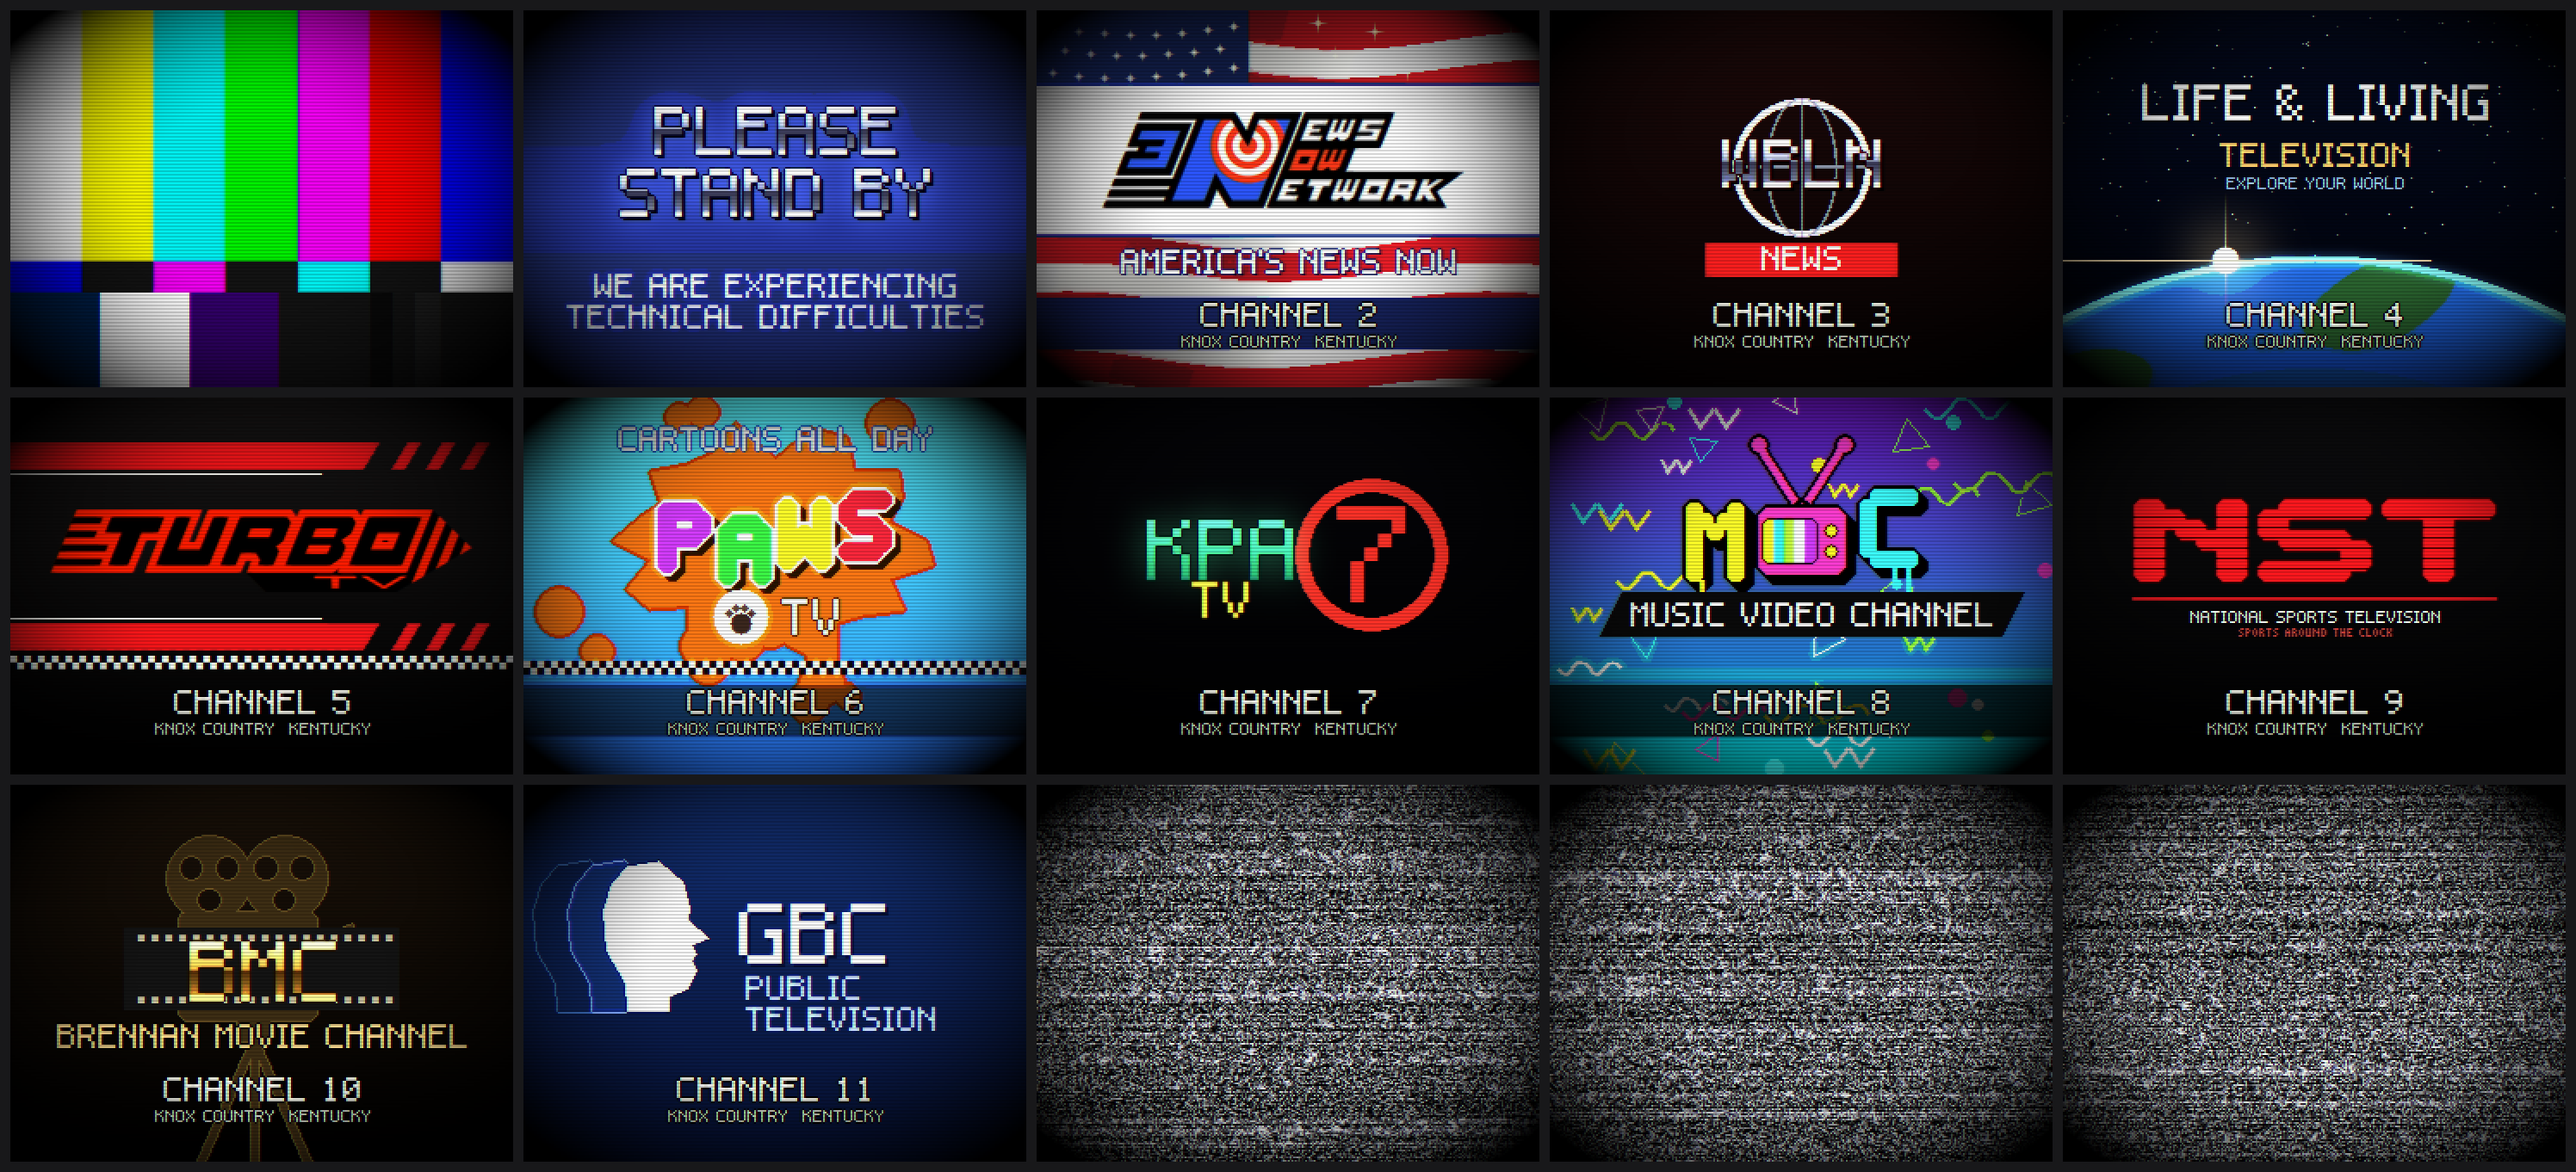
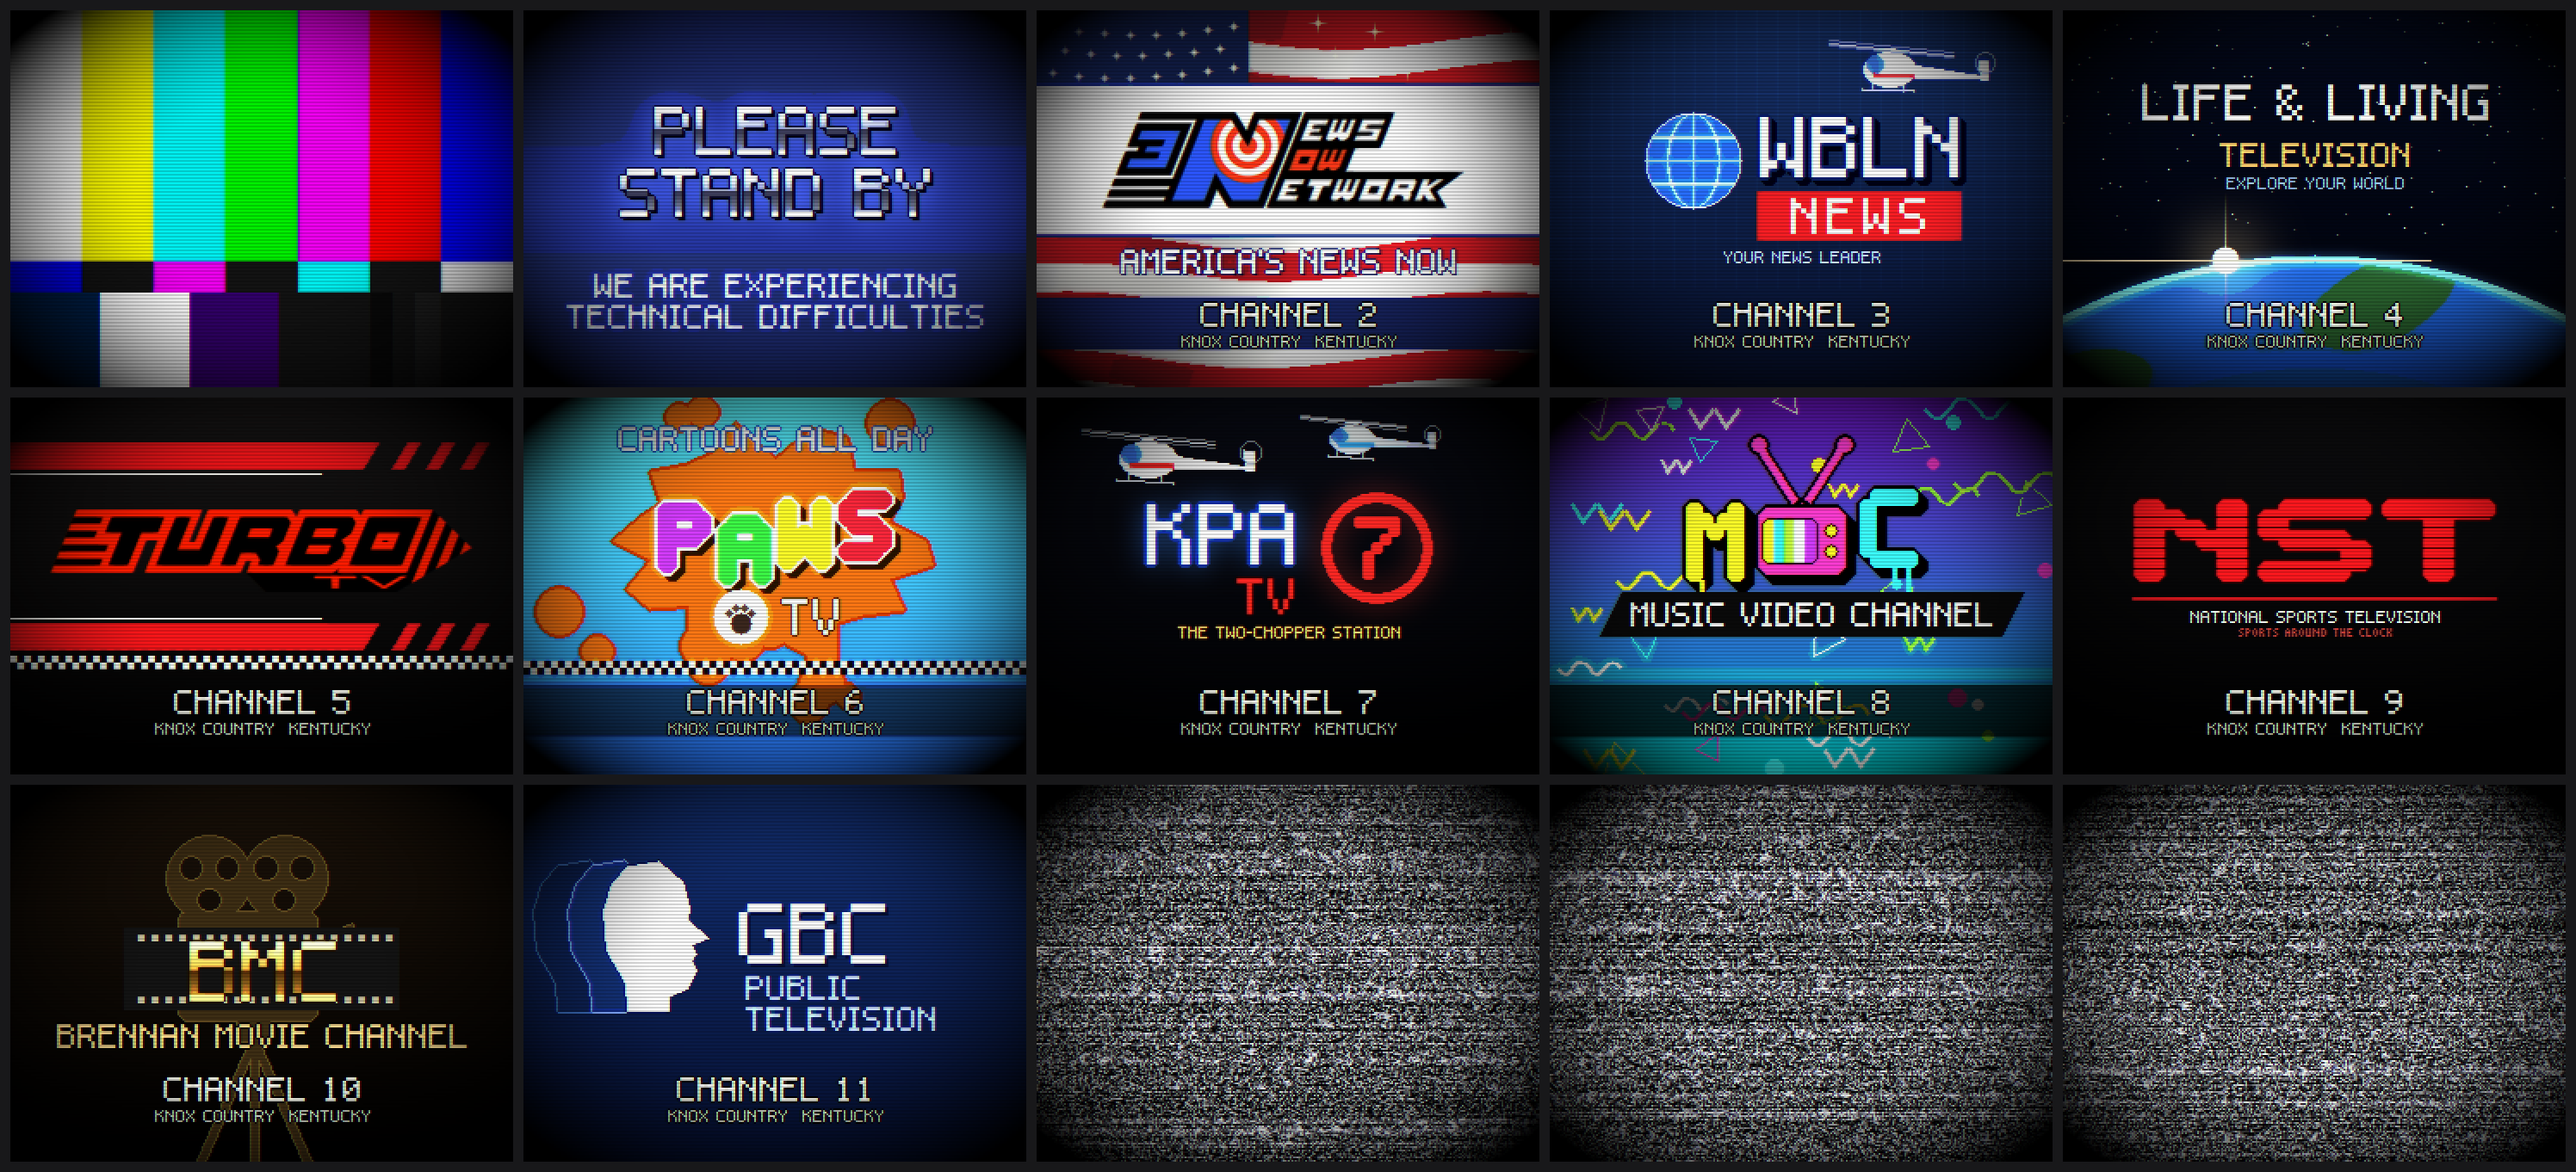
Design: WBLN rebuilt to read; KPATV tidied; news choppers on both
WBLN (director: hard to read): newsroom blue with a faint map grid, the globe
beside the call letters, big white WBLN with a navy outline and shadow, NEWS in a
red bar, YOUR NEWS LEADER, and its news chopper flying across the top (director:
a chopper in shot). KPATV: white KPA with a blue glow, red TV, the red ring with
the 7 standing clear in it, and two choppers, lead and wingman, with THE
TWO-CHOPPER STATION (director: KPA has two choppers and they know it). The
chopper is one shared drawing (chopper()).

Claude-Session: https://claude.ai/code/session_015Lv8fXDH1kuxg46sEw6iLh

Changed region(s): [[0.5906, 0.0, 0.8082, 0.3392], [0.4352, 0.3392, 0.5595, 0.5551]]

diff --git a/ZeDUI/tools/physpx/offair.py b/ZeDUI/tools/physpx/offair.py
@@ -227,6 +227,30 @@ def footer(a, w, h, ch, s, col=(240, 240, 230)):
     text(a, COUNTY, w // 2, int(h * 0.78) + 8 * ss + 3, 1, col, font="57", outline=(0, 0, 0))
 
 
+def chopper(a, hx0, hy0, L, s, stripe=(200, 30, 36), body=(225, 230, 240, 255)):
+    """a news helicopter flying left, nose down: cabin, windscreen, a stripe down the side, tail boom, fin, the tail
+    rotor's blur, the main rotor as a blurred line, skids"""
+    h, w = a.shape[:2]
+    ch_ = Image.new("RGBA", (w, h), (0, 0, 0, 0)); dc = ImageDraw.Draw(ch_)
+    tilt = 0.10
+    def T(x, y): return (hx0 + x * L, hy0 + (y + (x - 0.35) * tilt) * L)
+    dc.ellipse([*T(0.02, 0.18), *T(0.42, 0.40)], fill=body)
+    dc.polygon([T(0.38, 0.24), T(0.95, 0.27), T(0.95, 0.30), T(0.38, 0.34)], fill=body)
+    dc.polygon([T(0.90, 0.16), T(0.97, 0.16), T(0.97, 0.30), T(0.92, 0.30)], fill=body)
+    dc.ellipse([*T(0.88, 0.10), *T(1.02, 0.24)], outline=(200, 210, 230, 160), width=1)
+    dc.ellipse([*T(0.04, 0.21), *T(0.17, 0.33)], fill=(60, 120, 190, 255))
+    dc.polygon([T(0.10, 0.33), T(0.40, 0.31), T(0.40, 0.34), T(0.10, 0.36)], fill=tuple(stripe) + (255,))
+    dc.rectangle([*T(0.18, 0.14), *T(0.26, 0.19)], fill=body)
+    for k, al in ((0.0, 230), (0.02, 120), (-0.02, 120)):
+        dc.line([T(-0.25, 0.14 + k), T(0.70, 0.14 + k)], fill=(235, 240, 250, al), width=1)
+    for xx in (0.08, 0.32):
+        dc.line([T(xx, 0.40), T(xx, 0.45)], fill=(200, 205, 215, 255), width=1)
+    dc.line([T(0.0, 0.46), T(0.40, 0.44)], fill=(200, 205, 215, 255), width=max(1, s // 2))
+    chp = np.asarray(ch_, np.float32) / 255
+    al_ = chp[..., 3:4]
+    a[:] = a * (1 - al_) + chp[..., :3] * al_
+
+
 def signoff(cid, w, h):
     s = big_scale(w, h)
     name, ch = {c[0]: (c[1], c[2]) for c in CHANNELS}[cid]
@@ -263,18 +287,40 @@ def signoff(cid, w, h):
         ss_ = max(1, s // 2)                                            # a navy bar under the footer's lines
         rect(a, 0, int(h * 0.78) - 3, w, 8 * ss_ + 14, (24, 36, 96))
     elif cid == "wbln":
-        a = card_frame(w, h, (30, 10, 10), (6, 2, 2))
-        r = int(10 * s)
-        put(a, ring_mask(r, max(2, s)), cx - r, cy - r, (220, 220, 230))                 # a globe: its ring and meridians
-        for k in (-0.5, 0, 0.5):
-            m = np.zeros((2 * r + 1, 2 * r + 1), bool)
-            yy, xx = np.mgrid[-r:r + 1, -r:r + 1]
-            m |= (np.abs(xx - k * np.sqrt(np.clip(r * r - yy * yy, 0, None))) < 0.8) & (xx * xx + yy * yy <= r * r)
-            put(a, m, cx - r, cy - r, (140, 150, 170))
-        rect(a, cx - r, cy - 1, 2 * r, 2, (140, 150, 170))
-        text(a, "WBLN", cx, cy - 4 * s, s, chrome(), outline=(40, 0, 0), shadow=(0, 0, 0))
-        rect(a, cx - 14 * s, cy + r + s, 28 * s, 8 * max(1, s // 2) + 4, (200, 30, 30))
-        text(a, "NEWS", cx, cy + r + s + 2, max(1, s // 2), (255, 255, 255))
+        # the local news station, readable (director, Oct 30 2026: "WBLN is hard to read"): a newsroom-blue field with
+        # a faint map grid, the globe beside the call letters (not under them), big white letters with a navy outline
+        # and shadow, NEWS in a red bar under them, YOUR NEWS LEADER
+        a = card_frame(w, h, (24, 52, 110), (6, 14, 40))
+        for x in range(0, w, max(6, 3 * s)): a[:int(h * 0.74), x] *= 1.12      # the faint grid
+        for y in range(0, int(h * 0.74), max(6, 3 * s)): a[y, :] *= 1.12
+        np.clip(a, 0, 1, out=a)
+        sc = s + 1
+        m = glyph_mask("WBLN", "57", sc)
+        r = int(5.5 * sc)                                                  # the globe's radius
+        total = 2 * r + 3 * s + m.shape[1]
+        gx_ = cx - total // 2 + r; gy_ = cy - s
+        disc_ = disc_mask(r)
+        put(a, grow(pad_to(disc_, 1), 1), gx_ - r - 1, gy_ - r - 1, (230, 236, 255))
+        put(a, disc_, gx_ - r, gy_ - r, (40, 110, 210))
+        yy_, xx_ = np.mgrid[-r:r + 1, -r:r + 1]
+        inside = xx_ * xx_ + yy_ * yy_ <= r * r
+        lines = np.zeros_like(inside)
+        for k in (-0.55, 0.0, 0.55):                                      # meridians
+            lines |= np.abs(xx_ - k * np.sqrt(np.clip(r * r - yy_ * yy_, 0, None))) < 0.7
+        for k in (-0.5, 0.0, 0.5):                                        # parallels
+            lines |= np.abs(yy_ - k * r) < 0.6
+        put(a, lines & inside, gx_ - r, gy_ - r, (200, 225, 255))
+        lx = gx_ + r + 3 * s; ly = gy_ - m.shape[0] // 2 - 2 * s
+        put(a, grow(pad_to(m, 2), 2), lx - 2 + s // 2 + 1, ly - 2 + s // 2 + 1, (0, 0, 20))
+        put(a, grow(pad_to(m, 2), 2), lx - 2, ly - 2, (10, 30, 90))
+        put(a, m, lx, ly, (255, 255, 255))
+        nb_y = ly + m.shape[0] + 2 * s                                     # NEWS in its red bar
+        nm = glyph_mask("NEWS", "57", max(1, s // 2 + 1), gap=2)
+        rect(a, lx - 2, nb_y, m.shape[1] + 4, nm.shape[0] + 2 * s, (200, 30, 36))
+        put(a, nm, lx + (m.shape[1] - nm.shape[1]) // 2, nb_y + s, (255, 255, 255))
+        text(a, "YOUR NEWS LEADER", cx, nb_y + nm.shape[0] + 3 * s + 2, 1, (200, 220, 255))
+        # the news chopper in the shot (director, Oct 30 2026: "WBLN can have a chopper in shot flying")
+        chopper(a, w * 0.62, h * 0.06, w * 0.26, s, (200, 30, 36))
     elif cid == "life":
         # the learning channels before reality TV (director, Oct 30 2026: "kinda like the TLC or Discover channel in
         # their old format"): the earth's rim seen from space, the sun cresting it, the name over the dark, a tagline
@@ -385,13 +431,31 @@ def signoff(cid, w, h):
         text(a, "CARTOONS ALL DAY", cx, int(h * 0.08), max(1, s // 2), (255, 255, 255), outline=(20, 60, 140))
         a[int(h * 0.78) - 3:int(h * 0.78) - 3 + 8 * max(1, s // 2) + 14] *= 0.45
     elif cid == "kpa":
-        a = card_frame(w, h, (6, 6, 10), (0, 0, 0))
-        r = int(11 * s)                                                                     # the big ring numeral
-        rx = cx + 12 * s
-        put(a, ring_mask(r, 2 * s), rx - r, cy - r, (230, 50, 40))
-        text(a, str(ch), rx, cy - 7 * s, 2 * s, (230, 50, 40))
-        text(a, "KPA", cx - 10 * s, cy - 5 * s, s + 1, vgrad((120, 255, 200), (40, 160, 120)), outline=(0, 30, 20), glow=(80, 255, 180))
-        text(a, "TV", cx - 10 * s, cy + 4 * s, max(1, s - 1), (255, 230, 80), outline=(40, 30, 0))
+        # the call letters and the big ring numeral of the station IDs the director sent: KPA in white with a blue
+        # outline and a soft blue glow, TV in red under it, the red ring with the 7 standing in it
+        a = card_frame(w, h, (10, 12, 22), (0, 0, 0))
+        sc = s + 1
+        m = glyph_mask("KPA", "57", sc)
+        r = int(6.5 * sc)
+        total = m.shape[1] + 4 * s + 2 * r
+        lx = cx - total // 2; ly = cy - m.shape[0] // 2 - 3 * s
+        add_glow(a, m, lx, ly, (60, 140, 255), radius=2 * s, amount=0.8)
+        put(a, grow(pad_to(m, 2), 2), lx - 2, ly - 2, (20, 50, 140))
+        put(a, m, lx, ly, (255, 255, 255))
+        tv = glyph_mask("TV", "57", max(1, s - 1))
+        put(a, grow(pad_to(tv, 1), 1), lx + m.shape[1] - tv.shape[1] - 1, ly + m.shape[0] + 2 * s - 1, (40, 0, 0))
+        put(a, tv, lx + m.shape[1] - tv.shape[1], ly + m.shape[0] + 2 * s, (230, 40, 36))
+        rcx, rcy = lx + m.shape[1] + 4 * s + r, cy - s
+        ring = ring_mask(r, max(3, int(1.6 * s)))
+        add_glow(a, ring, rcx - r, rcy - r, (255, 60, 40), radius=2 * s, amount=0.5)
+        put(a, ring, rcx - r, rcy - r, (230, 40, 36))
+        sev = grow(pad_to(glyph_mask(str(ch), "57", sc), 1), 1)          # the numeral standing clear inside the ring
+        put(a, sev, rcx - sev.shape[1] // 2, rcy - sev.shape[0] // 2, (230, 40, 36))
+        # two choppers, and they know it (director, Oct 30 2026: "KPA has two choppers and they know it"): one in
+        # front, its wingman behind and above, and the line that says so
+        chopper(a, w * 0.16, h * 0.06, w * 0.28, s, (230, 40, 36))                        # the lead
+        chopper(a, w * 0.58, h * 0.03, w * 0.22, s, (60, 140, 255), body=(200, 206, 220, 255))  # the wingman, behind
+        text(a, "THE TWO-CHOPPER STATION", cx, ly + m.shape[0] + 9 * s, 1, (255, 220, 120), outline=(40, 20, 0))
     elif cid == "mvc":
         # the rap-video shows and sitcom openers of the day (director, Oct 30 2026: "more fresh prince, yo mtv raps
         # vibes"): a loud purple-to-teal field thrown with confetti shapes (triangles, squiggles, zigzags, dots), chunky
